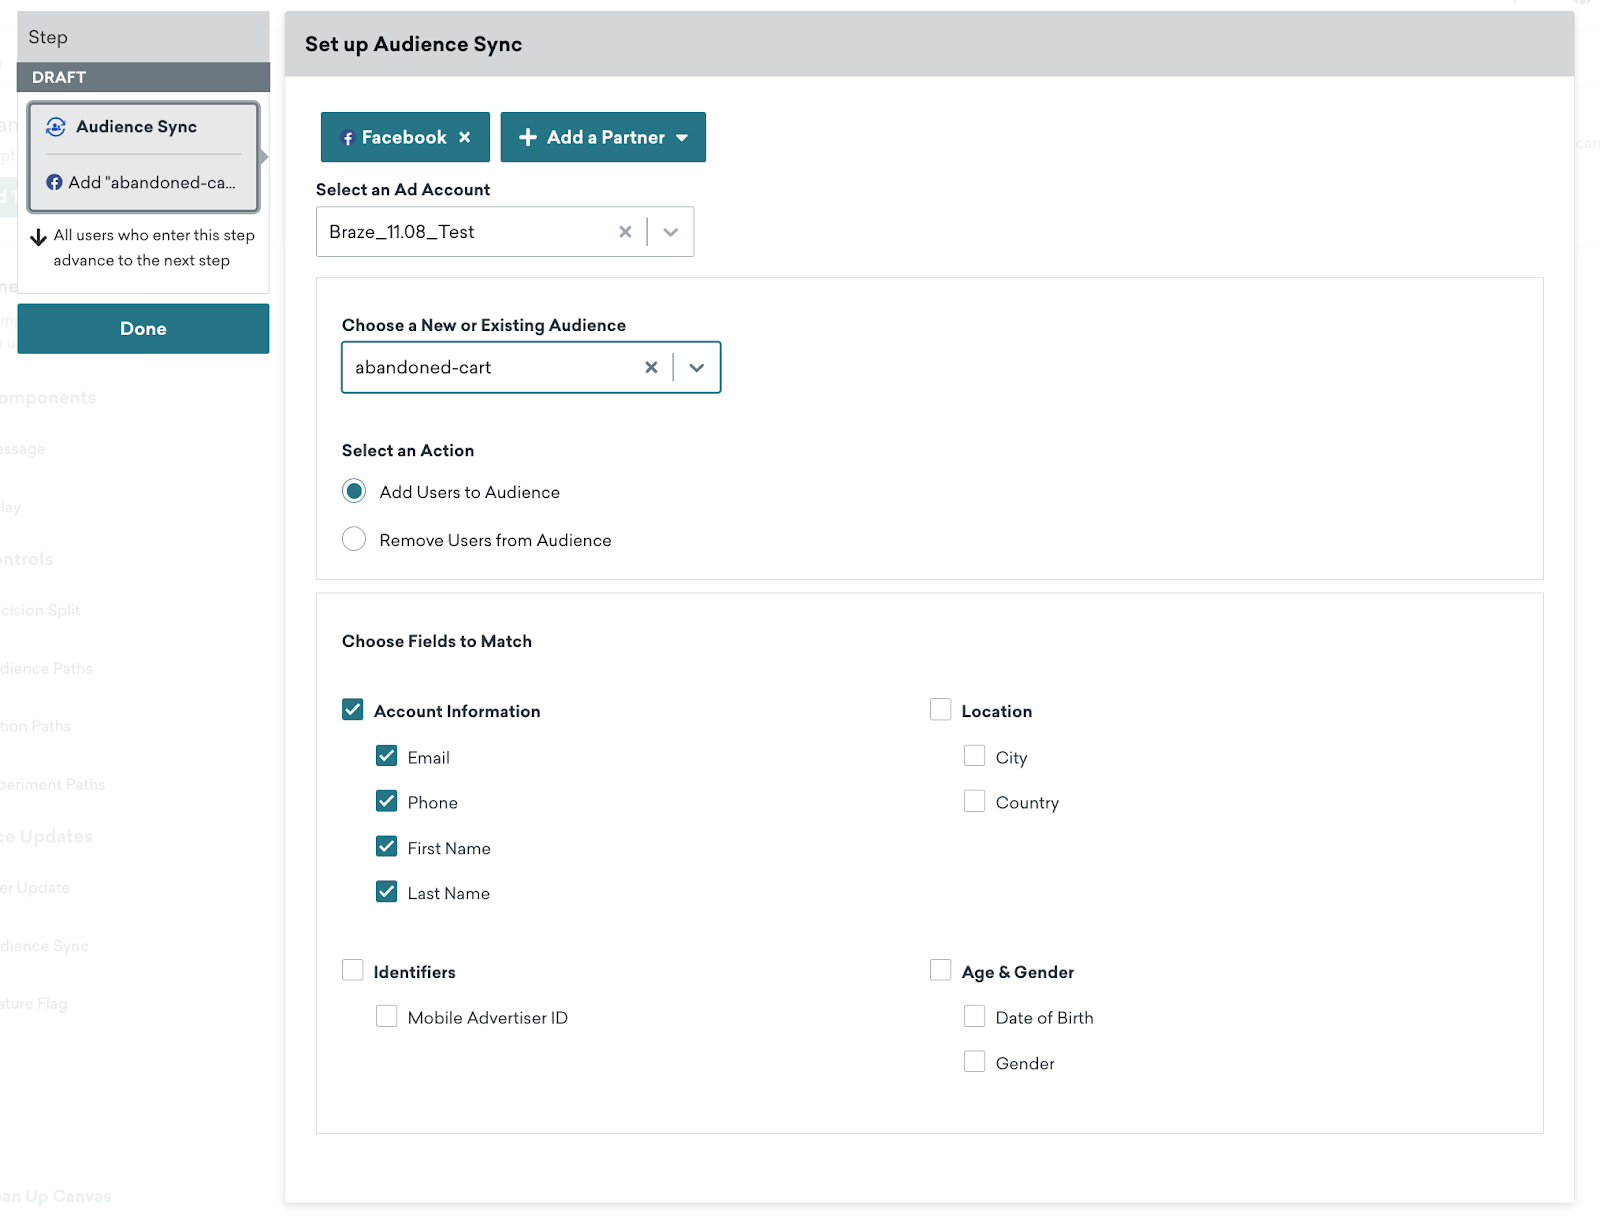
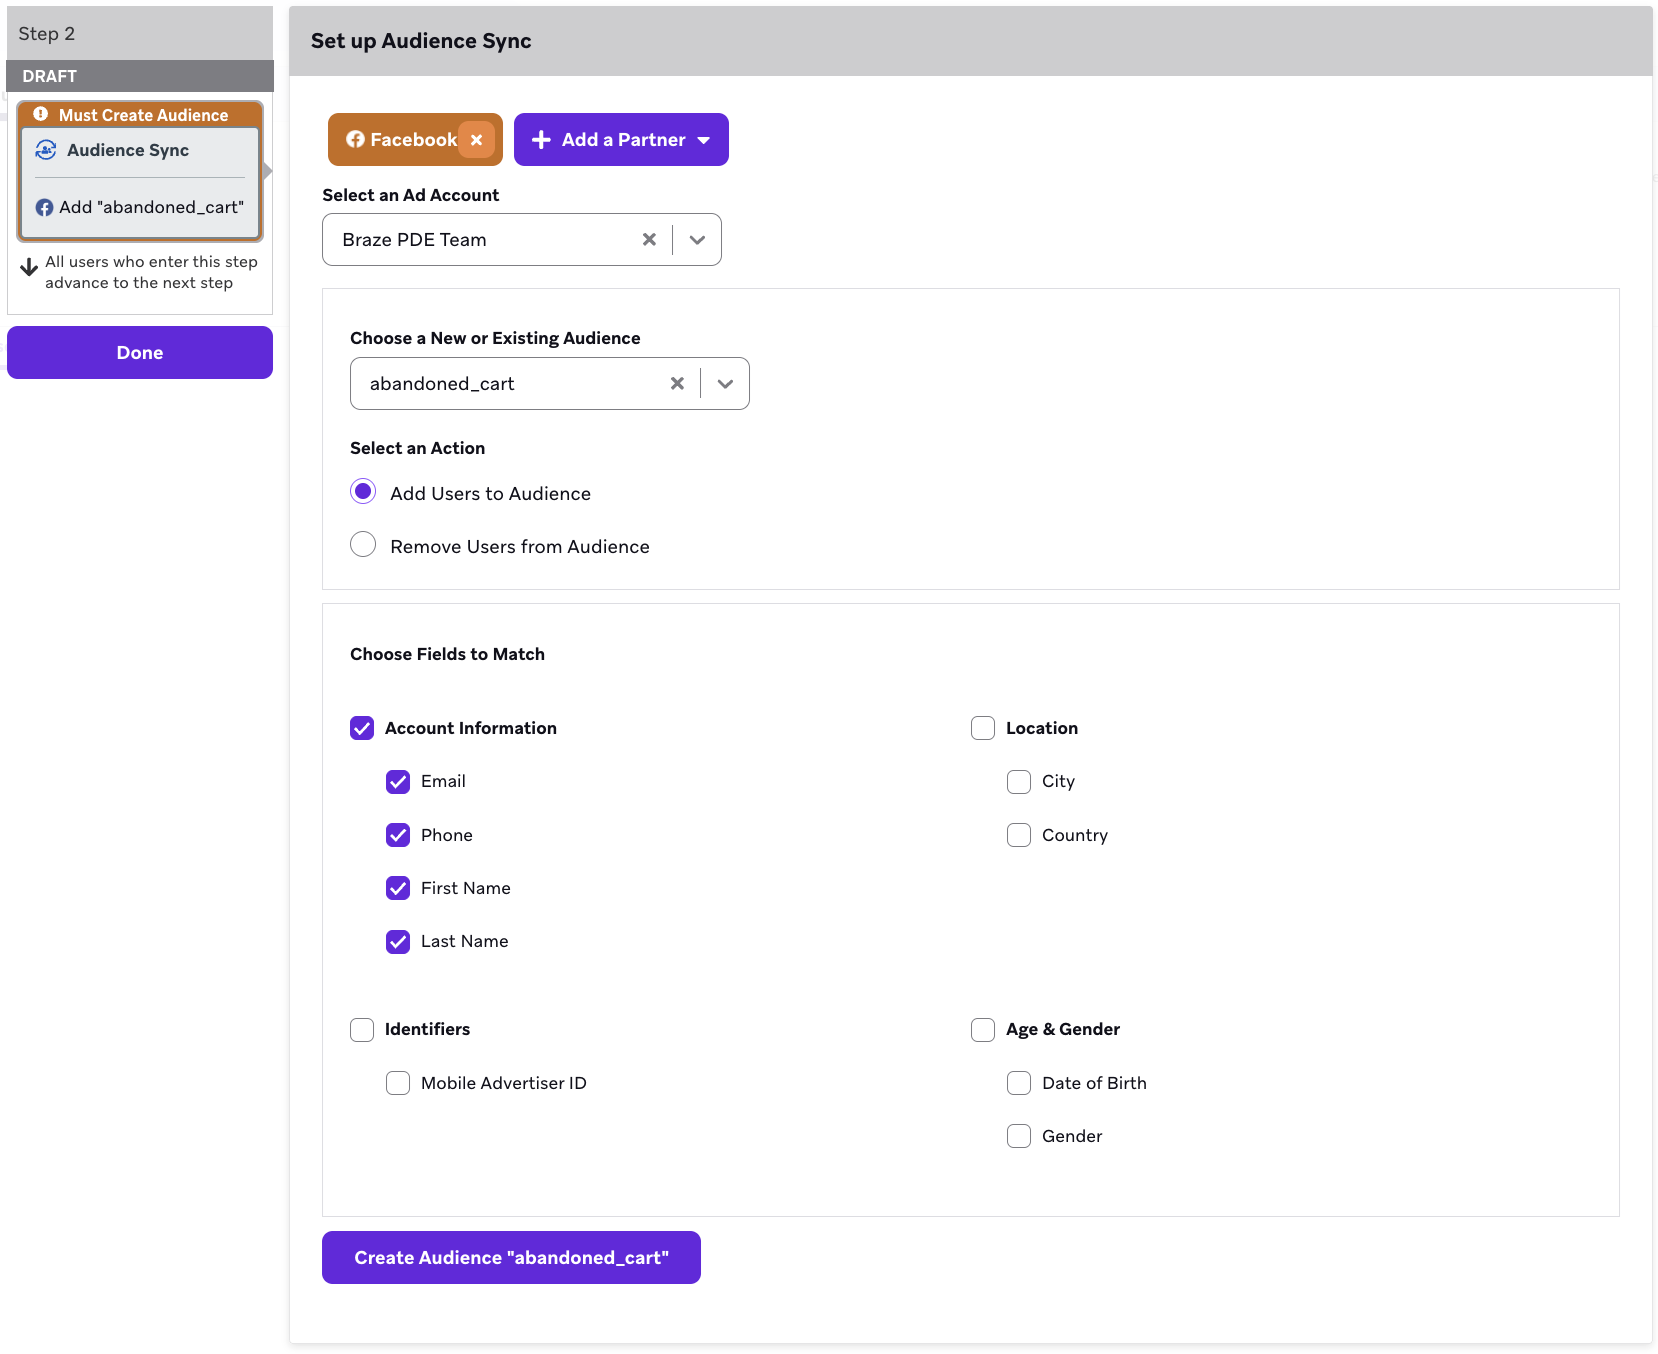
BD-4193 Update FB audience sync docs (#10007)

diff --git a/_docs/_partners/canvas_audience_sync/facebook_audience_sync.md b/_docs/_partners/canvas_audience_sync/facebook_audience_sync.md
@@ -54,11 +54,7 @@ A Facebook oAuth dialog window will appear to authorize Braze to create Custom A
 
 ![The first facebook dialogue box prompting to "Connect as X", where X is your Facebook username.]({% image_buster /assets/img/fb/afb_3.png %}){: style="max-width:30%;"}  ![The second Facebook dialogue box prompting for permission to manage ads for your ad accounts.]({% image_buster /assets/img/fb/afb_2.png %}){: style="max-width:40%;"}
 
-Once you have linked Braze to your Facebook account, you will then be able to select which ad accounts you would like to sync within your Braze workspace. 
-
-![A list of available ad accounts you can connect to Facebook.]({% image_buster /assets/img/fb/afb_4.png %}){: style="max-width:70%;"}
-
-After you have successfully connected, you'll be taken back to the partner page, where you can view which accounts are connected and disconnect existing accounts.
+After linking Braze to your Facebook account, select the ad accounts you would like to sync within your Braze workspace. When you're connected, you'll be taken back to the partner page, where you can view which accounts are connected and disconnect existing accounts.
 
 ![An updated version of the Facebook technology partners page showing the ad accounts successfully connected.]({% image_buster /assets/img/fb/afb_5.png %}){: style="max-width:85%;"}
 
@@ -103,11 +99,9 @@ Select the desired Facebook ad account. Under the **Choose a New or Existing Aud
 2. Select **Add Users to Audience**, and choose the fields you would like to sync with Facebook. 
 3. Next, select **Create Audience** to save your audience.
 
-![Audience sync setup for "abandoned-cart" audience with the email, phone, first name, and last name information to match.]({% image_buster /assets/img/audience_sync/fb_sync.png %})
+![Audience sync setup for an audience with the email, phone, first name, and last name information to match.]({% image_buster /assets/img/audience_sync/fb_sync.png %})
 
 You'll be notified at the top of the step editor if the audience is created successfully or if an error occurs during this process. You can also reference this audience for user removal later in the Canvas journey because the audience was created in draft mode.
-
-![A success message that the "abandoned_cart" audience was created.]({% image_buster /assets/img/audience_sync/fb_sync2.png %})
 
 When you launch a Canvas with a new audience, Braze will create the new custom audience upon launching the Canvas and subsequently sync users in near real-time as they enter the Audience Sync step.
 
@@ -120,7 +114,7 @@ Braze offers the ability to either add or remove users from existing Facebook cu
 2. Choose whether you want to **Add to the Audience** or **Remove from the Audience**. 
 3. Braze will either add or remove users in near real-time as they enter the Facebook Audience step. 
 
-![]({% image_buster /assets/img/audience_sync/fb_sync3.png %})
+![Audience sync setup to remove the email, phone, first name, and last name information.]({% image_buster /assets/img/audience_sync/fb_sync3.png %})
 
 {% alert important %}
 Facebook prohibits removing users from custom audiences where the audience sizes are too low (typically fewer than 1,000 users). As a result, Braze will be unable to sync users for a removal from the Audience Sync step until the audience reaches the appropriate audience size.
